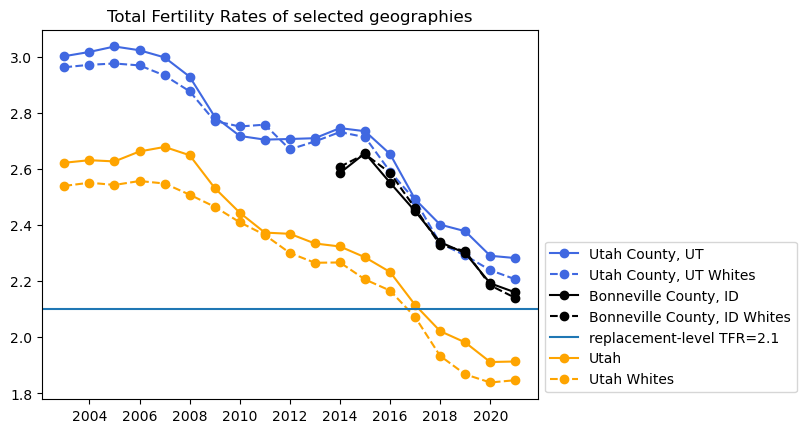
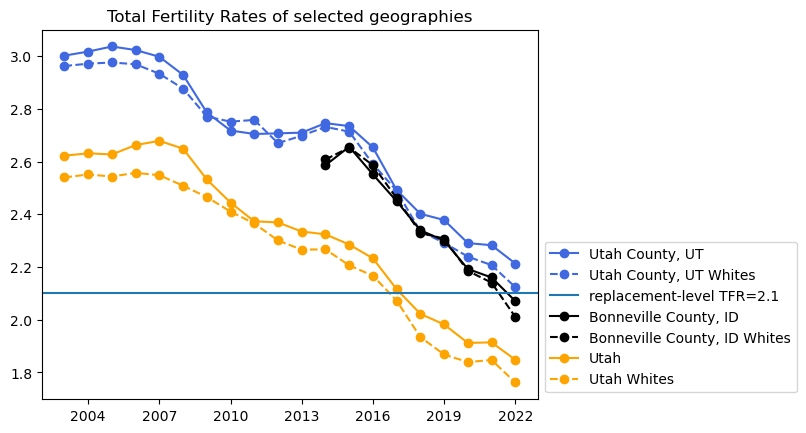
update Mormon fertility

diff --git a/_posts/2021-03-19-mormon-fertility-indicators.html b/_posts/2021-03-19-mormon-fertility-indicators.html
@@ -33,7 +33,7 @@ Every value in the "Fertility Rate per 1,000" column of the following tables is 
 
 2003-2006 <a href=https://wonder.cdc.gov/controller/saved/D27/D315F695>https://wonder.cdc.gov/controller/saved/D27/D315F695</a><br>
 2007-2015 <a href=https://wonder.cdc.gov/controller/saved/D66/D315F690>https://wonder.cdc.gov/controller/saved/D66/D315F690</a><br>
-2016-2021 <a href=https://wonder.cdc.gov/controller/saved/D66/D315F691>https://wonder.cdc.gov/controller/saved/D66/D315F691</a><br>
+2016-2021 <a href=https://wonder.cdc.gov/controller/saved/D66/D357F462>https://wonder.cdc.gov/controller/saved/D66/D357F462</a><br>
 
 
 <h3>Addendum</h3>
